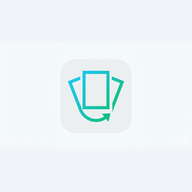
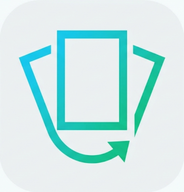
Updates

Changed region(s): [[0.0815, 0.1562, 0.8967, 0.875]]

diff --git a/sw.js b/sw.js
@@ -1,1 +1,1 @@
-if(!self.define){let e,s={};const i=(i,n)=>(i=new URL(i+".js",n).href,s[i]||new Promise(s=>{if("document"in self){const e=document.createElement("script");e.src=i,e.onload=s,document.head.appendChild(e)}else e=i,importScripts(i),s()}).then(()=>{let e=s[i];if(!e)throw new Error(`Module ${i} didn’t register its module`);return e}));self.define=(n,r)=>{const l=e||("document"in self?document.currentScript.src:"")||location.href;if(s[l])return;let o={};const a=e=>i(e,l),c={module:{uri:l},exports:o,require:a};s[l]=Promise.all(n.map(e=>c[e]||a(e))).then(e=>(r(...e),o))}}define(["./workbox-8c29f6e4"],function(e){"use strict";self.skipWaiting(),e.clientsClaim(),e.precacheAndRoute([{url:"index.html",revision:"268bf44b868f66af8354b4c838809530"},{url:"icon.png",revision:"790486a7cdc13165a746fe322c0df475"},{url:"icon-512.png",revision:"3055b54b3e305ac651da1f78bf86e5dc"},{url:"icon-192.png",revision:"8be24a3ded51933a907cf84e00217ede"},{url:"favicon.ico",revision:"1ba2ae710d927f13d483fd5d1e548c9b"},{url:"workers/updateWorker.js",revision:"408b41a64df79a5d88cff7a96ec346c8"},{url:"images/bg.png",revision:"6ebe78cb765815fdc628c5620ed0c6ac"},{url:"images/bg.avif",revision:"d56dedb2f6cb387aacc6f0aea1b63a8a"},{url:"assets/workbox-window.prod.es5-d772c227.js",revision:null},{url:"assets/index-8fb7e399.js",revision:null},{url:"assets/index-1a4ae136.css",revision:null},{url:"assets/TestView-bf6bd3a5.js",revision:null},{url:"assets/TestView-0346f71c.css",revision:null},{url:"assets/RepoView-9f9be6a2.js",revision:null},{url:"assets/OneView-53a9c224.css",revision:null},{url:"assets/OneView-436d5680.js",revision:null},{url:"assets/ListView-51e0a0aa.js",revision:null},{url:"assets/ConfigView-aa43a705.css",revision:null},{url:"assets/ConfigView-4c93f80d.js",revision:null},{url:"manifest.webmanifest",revision:"5bd53351bd82ba40792f278a9cba4322"}],{}),e.cleanupOutdatedCaches(),e.registerRoute(new e.NavigationRoute(e.createHandlerBoundToURL("/cards3/index.html"),{denylist:[/^\/cards3\/repo\//]}))});
+if(!self.define){let e,s={};const i=(i,n)=>(i=new URL(i+".js",n).href,s[i]||new Promise(s=>{if("document"in self){const e=document.createElement("script");e.src=i,e.onload=s,document.head.appendChild(e)}else e=i,importScripts(i),s()}).then(()=>{let e=s[i];if(!e)throw new Error(`Module ${i} didn’t register its module`);return e}));self.define=(n,r)=>{const l=e||("document"in self?document.currentScript.src:"")||location.href;if(s[l])return;let o={};const a=e=>i(e,l),c={module:{uri:l},exports:o,require:a};s[l]=Promise.all(n.map(e=>c[e]||a(e))).then(e=>(r(...e),o))}}define(["./workbox-8c29f6e4"],function(e){"use strict";self.skipWaiting(),e.clientsClaim(),e.precacheAndRoute([{url:"index.html",revision:"268bf44b868f66af8354b4c838809530"},{url:"icon.png",revision:"c0f879f23e8ee62790a48436d4cc49b0"},{url:"icon-512.png",revision:"a458c0877eca78ec1e38ce30b18f8ba0"},{url:"icon-192.png",revision:"af8956e8a2fe08991abc88a506be34e6"},{url:"favicon.ico",revision:"1ba2ae710d927f13d483fd5d1e548c9b"},{url:"workers/updateWorker.js",revision:"408b41a64df79a5d88cff7a96ec346c8"},{url:"images/bg.png",revision:"6ebe78cb765815fdc628c5620ed0c6ac"},{url:"images/bg.avif",revision:"d56dedb2f6cb387aacc6f0aea1b63a8a"},{url:"assets/workbox-window.prod.es5-d772c227.js",revision:null},{url:"assets/index-8fb7e399.js",revision:null},{url:"assets/index-1a4ae136.css",revision:null},{url:"assets/TestView-bf6bd3a5.js",revision:null},{url:"assets/TestView-0346f71c.css",revision:null},{url:"assets/RepoView-9f9be6a2.js",revision:null},{url:"assets/OneView-53a9c224.css",revision:null},{url:"assets/OneView-436d5680.js",revision:null},{url:"assets/ListView-51e0a0aa.js",revision:null},{url:"assets/ConfigView-aa43a705.css",revision:null},{url:"assets/ConfigView-4c93f80d.js",revision:null},{url:"manifest.webmanifest",revision:"5bd53351bd82ba40792f278a9cba4322"}],{}),e.cleanupOutdatedCaches(),e.registerRoute(new e.NavigationRoute(e.createHandlerBoundToURL("/cards3/index.html"),{denylist:[/^\/cards3\/repo\//]}))});
